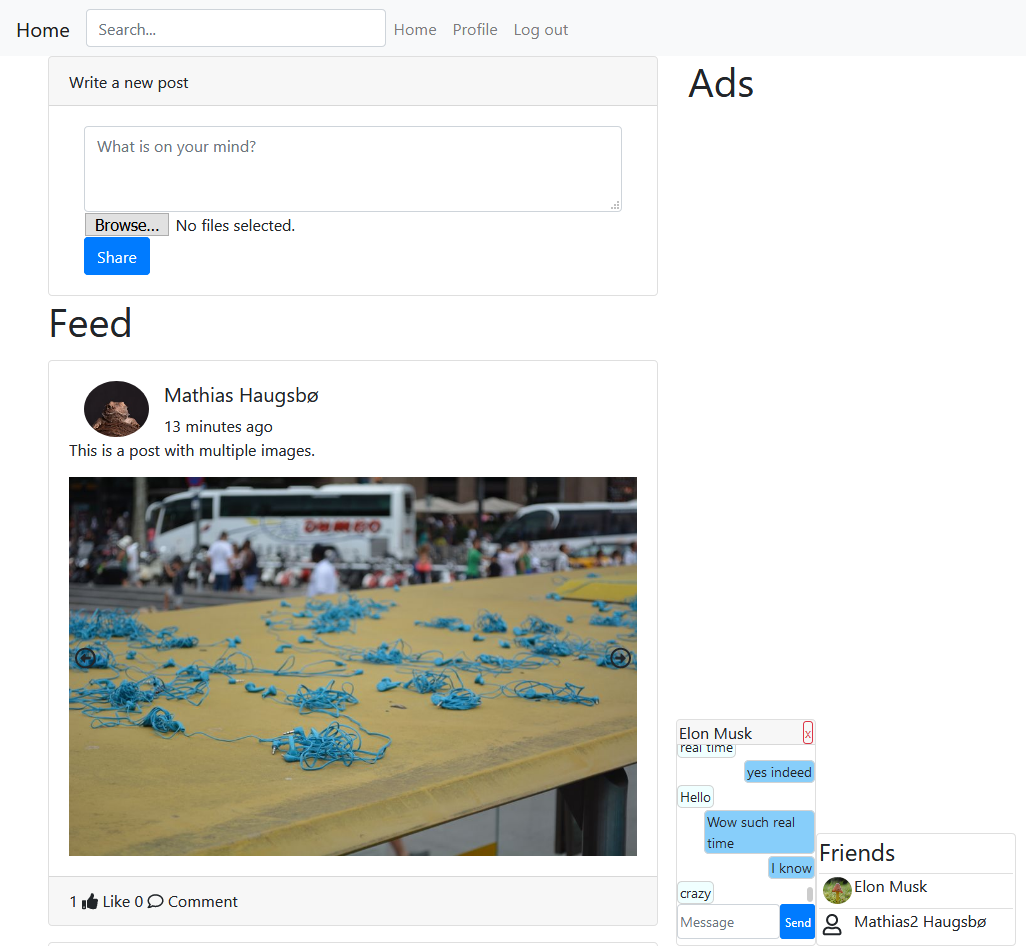
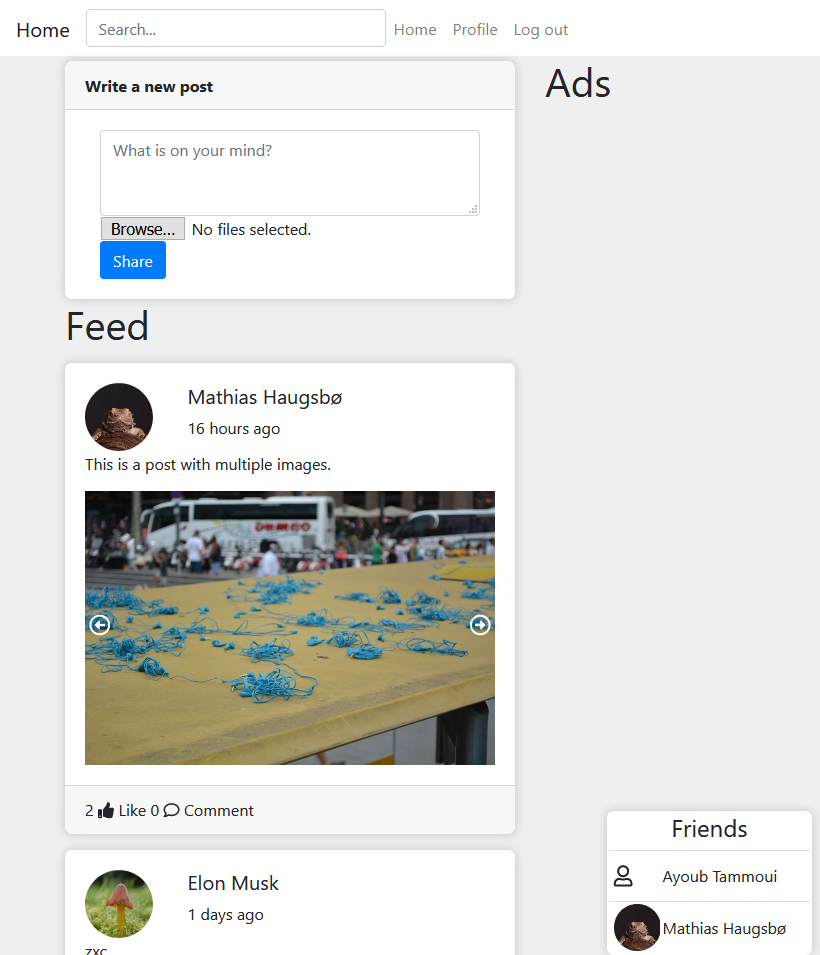
Improved chat and css

diff --git a/node-backend/socket.io/chat.js b/node-backend/socket.io/chat.js
@@ -1,15 +1,23 @@
 const rooms = []; // TODO: Replace this with redis database
 
+const activeUsers = {}; // Users which have subscribed to new chats
+
 const Chat = require('../controllers/Chat');
 const Friend = require('../controllers/Friend');
 
 module.exports = function (io, socket) {
+    socket.on('subscribeToChats', function (data) {
+        console.log('Subscribe to chats', socket.user.id);
+        activeUsers[socket.user.id] = socket.id;
+    });
+
     socket.on('/chat/user', function (data) {
         if (data.userId) {
             // Check if socket.user.id is friend with data.userId
             Friend.findByUserId(socket.user.id)
             .then(friends => {
                 if(friends.filter(friend => friend.id === data.userId).length > 0) {
+                    // user is a friend of this socket
                     const roomName = (socket.user.id < data.userId ? socket.user.id+'USERCHAT'+data.userId : data.userId+'USERCHAT'+socket.user.id);
                     if (!rooms.includes(roomName)) {
                         rooms.push(roomName);
@@ -35,6 +43,13 @@ module.exports = function (io, socket) {
             // Required data values is supplied
             if(Object.keys(socket.rooms).indexOf(data.roomName) >= 0) {
                 // User is in the room it want's to send to
+                // Notify receiver that a user sent them a message (if they aren't in the room)
+                const roomClients = io.sockets.adapter.rooms[data.roomName].sockets;
+                console.log(roomClients);
+                const receiverId = activeUsers[data.to];
+                if (receiverId && Object.keys(roomClients).indexOf(receiverId) === -1) {
+                    io.to(receiverId).emit('newChat', {id: socket.user.id});
+                }
                 // Save chat message to db
                 Chat.save(socket.user.id, data.to, data.message)
                 .then(ids => {
@@ -46,6 +61,7 @@ module.exports = function (io, socket) {
                         created_at: Date.now(),
                         id: ids[0] // Id of message from db
                     });
+
                 })
                 .catch(err => {
                     socket.emit('new error', 'Unable to send chat message.');

diff --git a/react-client/src/components/chat/FriendList.jsx b/react-client/src/components/chat/FriendList.jsx
@@ -1,7 +1,7 @@
 import React from 'react'
 import AuthHelper from '../../utils/AuthHelper';
 import Friend from './Friend';
-
+import io from 'socket.io-client';
 import './friendList.css';
 import { ListGroup, Card } from 'react-bootstrap';
 import Chat from './Chat';
@@ -12,14 +12,11 @@ export default function FriendList(props) {
     const [ friends, setFriends ] = React.useState([]);
     const [ chats, setChats ] = React.useState([]);
 
-    React.useLayoutEffect(() => {
-        
-        console.log('doing something');
+    React.useEffect(() => {        
         auth.fetch('/api/user/friend', {
             method: 'GET'
         })
         .then(friends => {
-            console.log(friends);
             setFriends(friends);
         })
         .catch(err => {
@@ -27,6 +24,22 @@ export default function FriendList(props) {
         });
 
     }, []);
+
+    React.useEffect(() => {
+        // Subscribe to socketIO chat
+        const socket = io.connect(auth.domain,{
+            query: {
+              token: auth.getToken()
+            }
+          });
+        socket.on('connect', (data) => {
+            socket.emit('subscribeToChats'); // Subscribe to new chat messages
+            socket.on('newChat', (data) => {
+                const friend = friends.filter((friend) => friend.id === data.id)[0];
+                openChat(friend)
+            });
+        });
+    }, [friends]);
 
     function openChat(friend) {
         if (chats.indexOf(friend) === -1) {
@@ -46,7 +59,7 @@ export default function FriendList(props) {
                 {chats.map(friend => <Chat {...friend} key={friend.id} closeChat={e => closeChat(friend)}/>)}
             </div>
             <Card body className="friendList">
-                <h4>Friends</h4>
+                <h4 className="text-center">Friends</h4>
                 <ListGroup variant="flush">
                     {friends.map(friend => (friend.id === auth.getTokenData().id ? '' :
                     <ListGroup.Item onClick={e => openChat(friend)} className="friendList-item" key={friend.id}>

diff --git a/react-client/src/components/navbar/Navbar.jsx b/react-client/src/components/navbar/Navbar.jsx
@@ -11,7 +11,7 @@ import Search from '../search/Search';
 export default function NavigationBar() {
     const user = React.useContext(UserContext);
     return (
-        <Navbar bg="light" expand="md">
+        <Navbar bg="white" expand="md">
             <Navbar.Brand><Link to="/">Home</Link></Navbar.Brand>
             <Search></Search>
             <Navbar.Toggle aria-controls="navbar-nav" />
@@ -19,7 +19,10 @@ export default function NavigationBar() {
                 <Nav className="justify-content-end">
                     <Nav.Item><Link to="/" className="nav-link">Home</Link></Nav.Item>
                     <Nav.Item><Link to={"/profile/"+user.id} className="nav-link">Profile</Link></Nav.Item>
-                    {user.isLoggedIn ? <Nav.Item onClick={user.logout}><Link to=' ' className="nav-link">Log out</Link></Nav.Item> : <Nav.Item><Link to="/" className="nav-link">login</Link></Nav.Item>}
+                    {user.isLoggedIn ? 
+                        (<Nav.Item onClick={user.logout}><Link to=' ' className="nav-link">Log out</Link></Nav.Item>)
+                        : (<Nav.Item><Link to="/" className="nav-link">login</Link></Nav.Item>)
+                    }
                 </Nav>
             </Navbar.Collapse>
         </Navbar>

diff --git a/react-client/src/components/chat/Chat.jsx b/react-client/src/components/chat/Chat.jsx
@@ -27,8 +27,6 @@ export default function Chat(props) {
             method: 'GET'
         })
         .then(messages => {
-            console.log(messages);
-            setMessages(messages);
             setState(s => {
                 return {
                     ...s,
@@ -36,6 +34,7 @@ export default function Chat(props) {
                     loaded: true
                 }
             });
+            setMessages(messages);
         })
         .catch(err => {
             console.error(err);
@@ -53,8 +52,6 @@ export default function Chat(props) {
         // Scroll to bottom on chat, when new message is sent
         console.log('Scroll to bottom');
         const messagesDOM = document.getElementById('chat-'+props.id);
-        console.log('chat-'+props.id);
-        console.log(messagesDOM);
         if (messagesDOM) {
             messagesDOM.scrollTop = messagesDOM.scrollHeight;
         }
@@ -73,9 +70,7 @@ export default function Chat(props) {
         }
     }
 
-
-    // TODO: Add socket.io to chat
-    React.useEffect(() => {
+    React.useLayoutEffect(() => {
         // Subscribe to socketIO chat
         console.log('connecting');
         const socket = io.connect(auth.domain,{

diff --git a/react-client/src/components/avatar/Avatar.jsx b/react-client/src/components/avatar/Avatar.jsx
@@ -9,15 +9,19 @@ const auth = new AuthHelper();
 export default function Avatar(props) {
     if (props.imgId) {
         return (
-            <img src={auth.domain+'/api/img/'+props.imgId}
-                alt={props.alt ? props.alt : "Avatar"}
-                className="avatar"></img>
+            <div className="squareAspect">
+                <img src={auth.domain+'/api/img/'+props.imgId}
+                    alt={props.alt ? props.alt : "Avatar"}
+                    className="img avatar"></img>
+            </div>
         )
     } else {
         return (
-            <FontAwesomeIcon icon={['far', 'user']}
-                            className="avatar"
-                            size="lg"></FontAwesomeIcon>
+            <div className="squareAspect">
+                <FontAwesomeIcon icon={['far', 'user']}
+                className="avatar"
+                size="lg"></FontAwesomeIcon>
+            </div>
         )
     }
 }

diff --git a/react-client/src/components/chat/Friend.jsx b/react-client/src/components/chat/Friend.jsx
@@ -2,15 +2,17 @@ import React from 'react'
 import { Container, Row, Col } from 'react-bootstrap';
 import Avatar from '../avatar/Avatar';
 
+import './friend.css';
+
 export default function Friend(props) {
     return (
         <Container onClick={props.onClick} id={props.id} className="friend">
             <Row>
-                <Col xs={2}>
+                <Col xs={3}>
                     <Avatar imgId={props.avatar}></Avatar>
                 </Col>
-                <Col xs={10}>
-                    <h6>{props.first_name} {props.last_name}</h6>
+                <Col xs={9}>
+                    <div className="friendName">{props.first_name} {props.last_name}</div>
                 </Col>
             </Row>
         </Container>

diff --git a/react-client/src/components/chat/chat.css b/react-client/src/components/chat/chat.css
@@ -1,15 +1,14 @@
 .chat {
-    width: 140px;
+    width: 150px;
     border-radius: .25rem;
 }
 
 .chat-header {
-    padding-left: 2px;
-    padding-right: 2px;
-    padding-top: 0px;
-    padding-bottom: 0px;
+    padding: 2px;
     display: flex;
     flex-direction: row;
+    text-overflow: ellipsis;
+    white-space: nowrap;
 }
 .chat-header span {
     flex-grow: 1;
@@ -23,8 +22,7 @@
 }
 
 .chat-body {
-    min-height: 200px;
-    max-height: 200px;
+    height: 200px;
     display: flex;
     flex-direction: column;
     padding: 0;
@@ -34,7 +32,6 @@
 .chat-form {
     align-self: end;
     display: flex;
-    padding-bottom: 6px;
 }
 
 .chat-form input {

diff --git a/node-backend/router/api/chat.js b/node-backend/router/api/chat.js
@@ -12,10 +12,8 @@ router.get('/:friendId', auth.isLoggedIn, function (req, res) {
     Friend.findByUserId(req.params.friendId)
             .then(friends => {
                 if(friends.filter(friend => friend.id == req.params.friendId).length > 0) {
-                    console.log('Have friends');
                     Chat.find({userId: req.user.id, friendId: req.params.friendId})
                     .then((results) => {
-                        console.log('Got chat', results);
                         res.json(results);
                     })
                     .catch(err => {

diff --git a/react-client/src/components/post/Post.jsx b/react-client/src/components/post/Post.jsx
@@ -87,10 +87,10 @@ export default function Post(props) {
             <Card.Body>
                 <Container>
                     <Row>
-                        <Col xs={2}>
+                        <Col xs={2} style={{paddingRight:0, paddingLeft:0}}>
                             <Avatar imgId={state.avatar}></Avatar>
                         </Col>
-                        <Col xs={10}>
+                        <Col xs={{offset:1}}>
                             <Row>
                                 <h5>{state.first_name} {state.last_name}</h5>
                             </Row>

diff --git a/react-client/src/components/chat/message.css b/react-client/src/components/chat/message.css
@@ -1,8 +1,8 @@
 .chat-message {
-    border: 1px solid lightgray;
+    border: 1px solid #e3e3e3;
     border-radius: 5px;
-    margin-top: 1px;
-    margin-bottom: 1px;
+    margin-top: 2px;
+    margin-bottom: 2px;
     padding-left: 2px;
     padding-right: 2px;
     display: block;
@@ -10,11 +10,11 @@
 }
 
 .receiver {
-    background-color: azure;
+    background-color: hsl(183, 1%, 98%);
     align-self: start;
 }
 
 .sender {
-    background-color: lightskyblue;
+    background-color: #dbf9ff;
     align-self: end;
 }

diff --git a/react-client/src/utils/AuthHelper.js b/react-client/src/utils/AuthHelper.js
@@ -1,7 +1,6 @@
 export default class AuthHelper {
     constructor(domain) {
         this.domain = domain || window.location.protocol+'//'+window.location.hostname+':8888';
-        console.log(this.domain);
     }
 
     /**
@@ -75,7 +74,6 @@ export default class AuthHelper {
      * @param {string} token
      */
     setToken = (token) => {
-        console.log('Setting token to local');
         localStorage.setItem('jwt', token);
     }
     

diff --git a/react-client/src/components/avatar/avatar.css b/react-client/src/components/avatar/avatar.css
@@ -1,7 +1,13 @@
+.squareAspect {
+    position: relative;
+    padding-bottom: 100%;
+    overflow: hidden;
+}
 .avatar {
+    position: absolute;
+    object-fit: cover;
+    border-radius: 50%;
+    object-position: center center;
     max-width: 100%;
     height: 100%;
-    border-radius: 50%;
-    object-fit: cover;
-    object-position: center center;
 }
